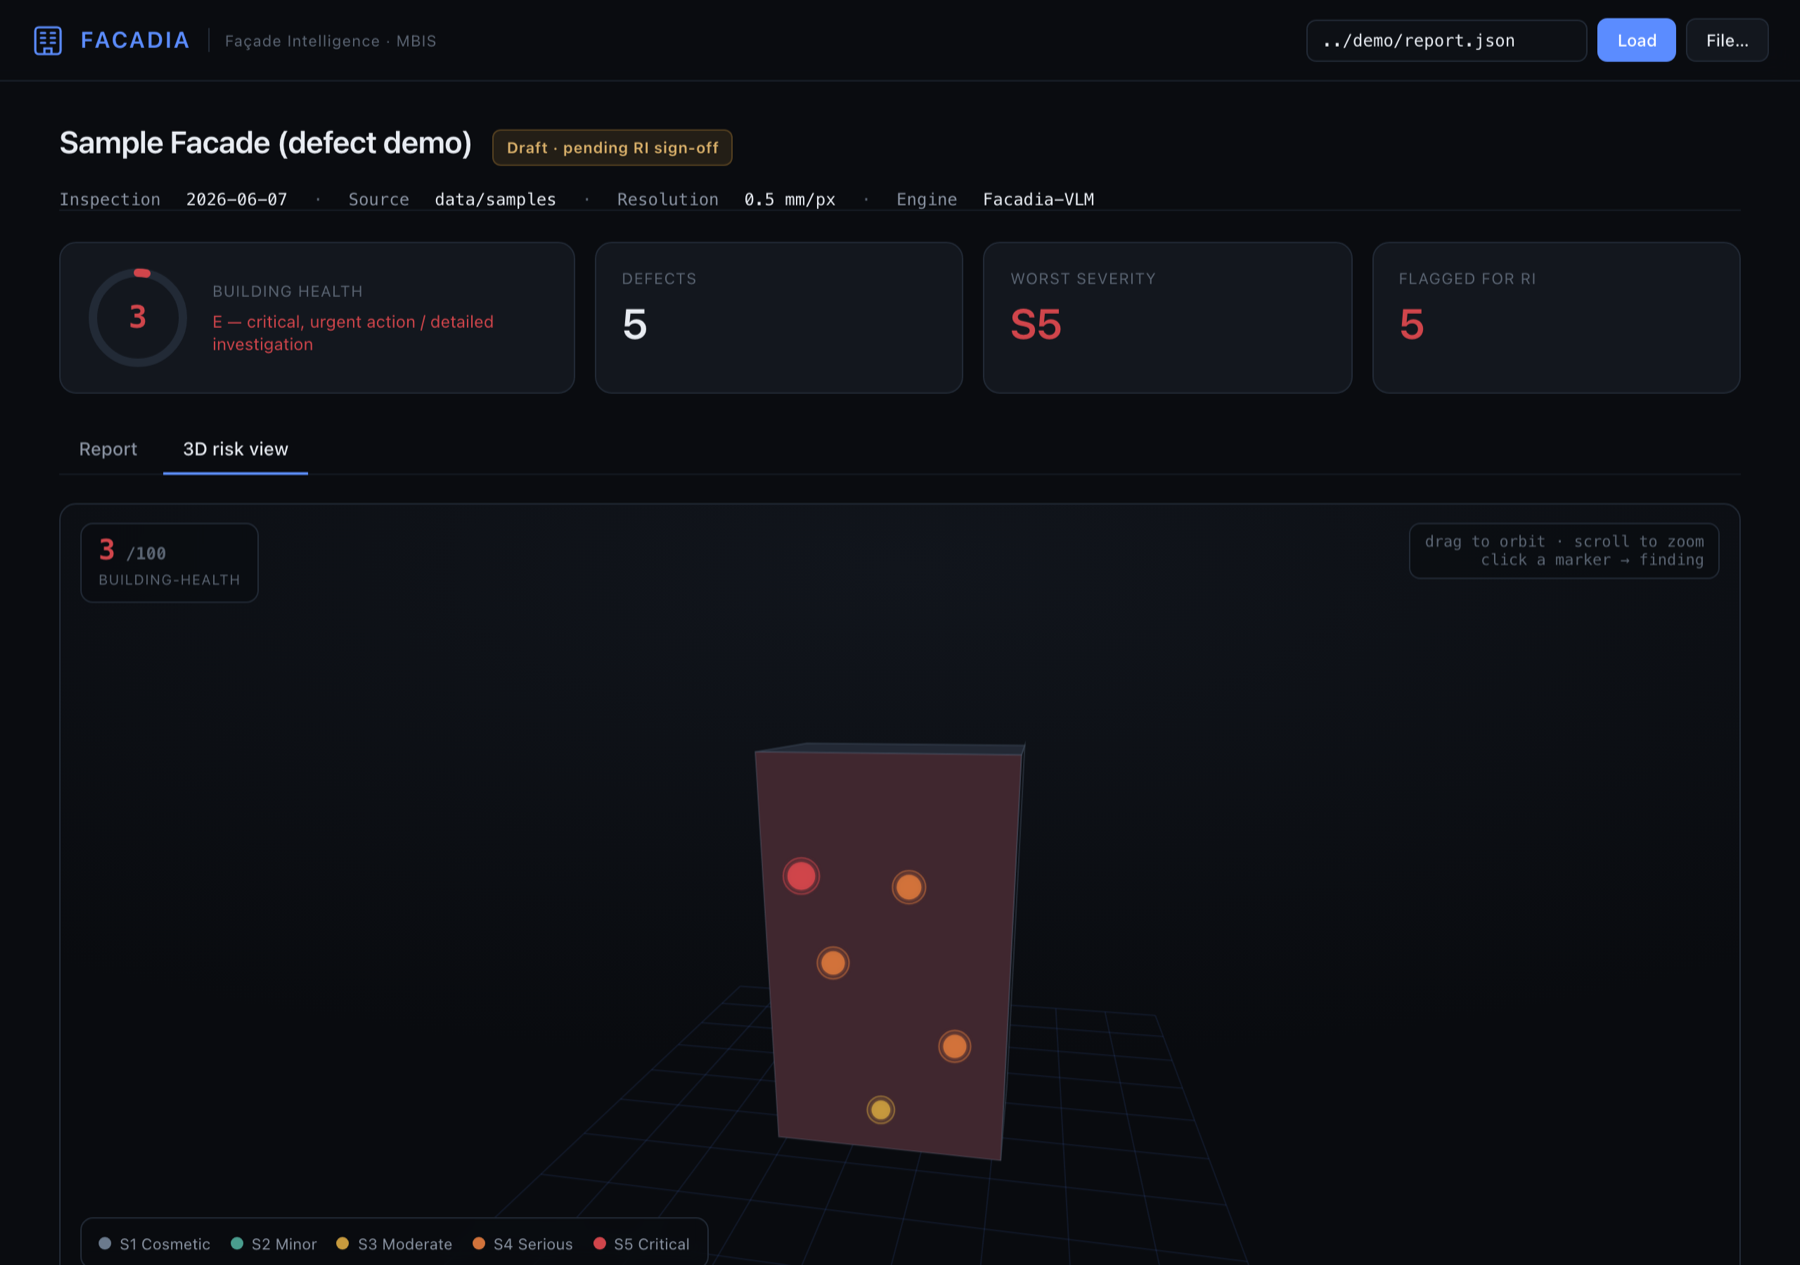
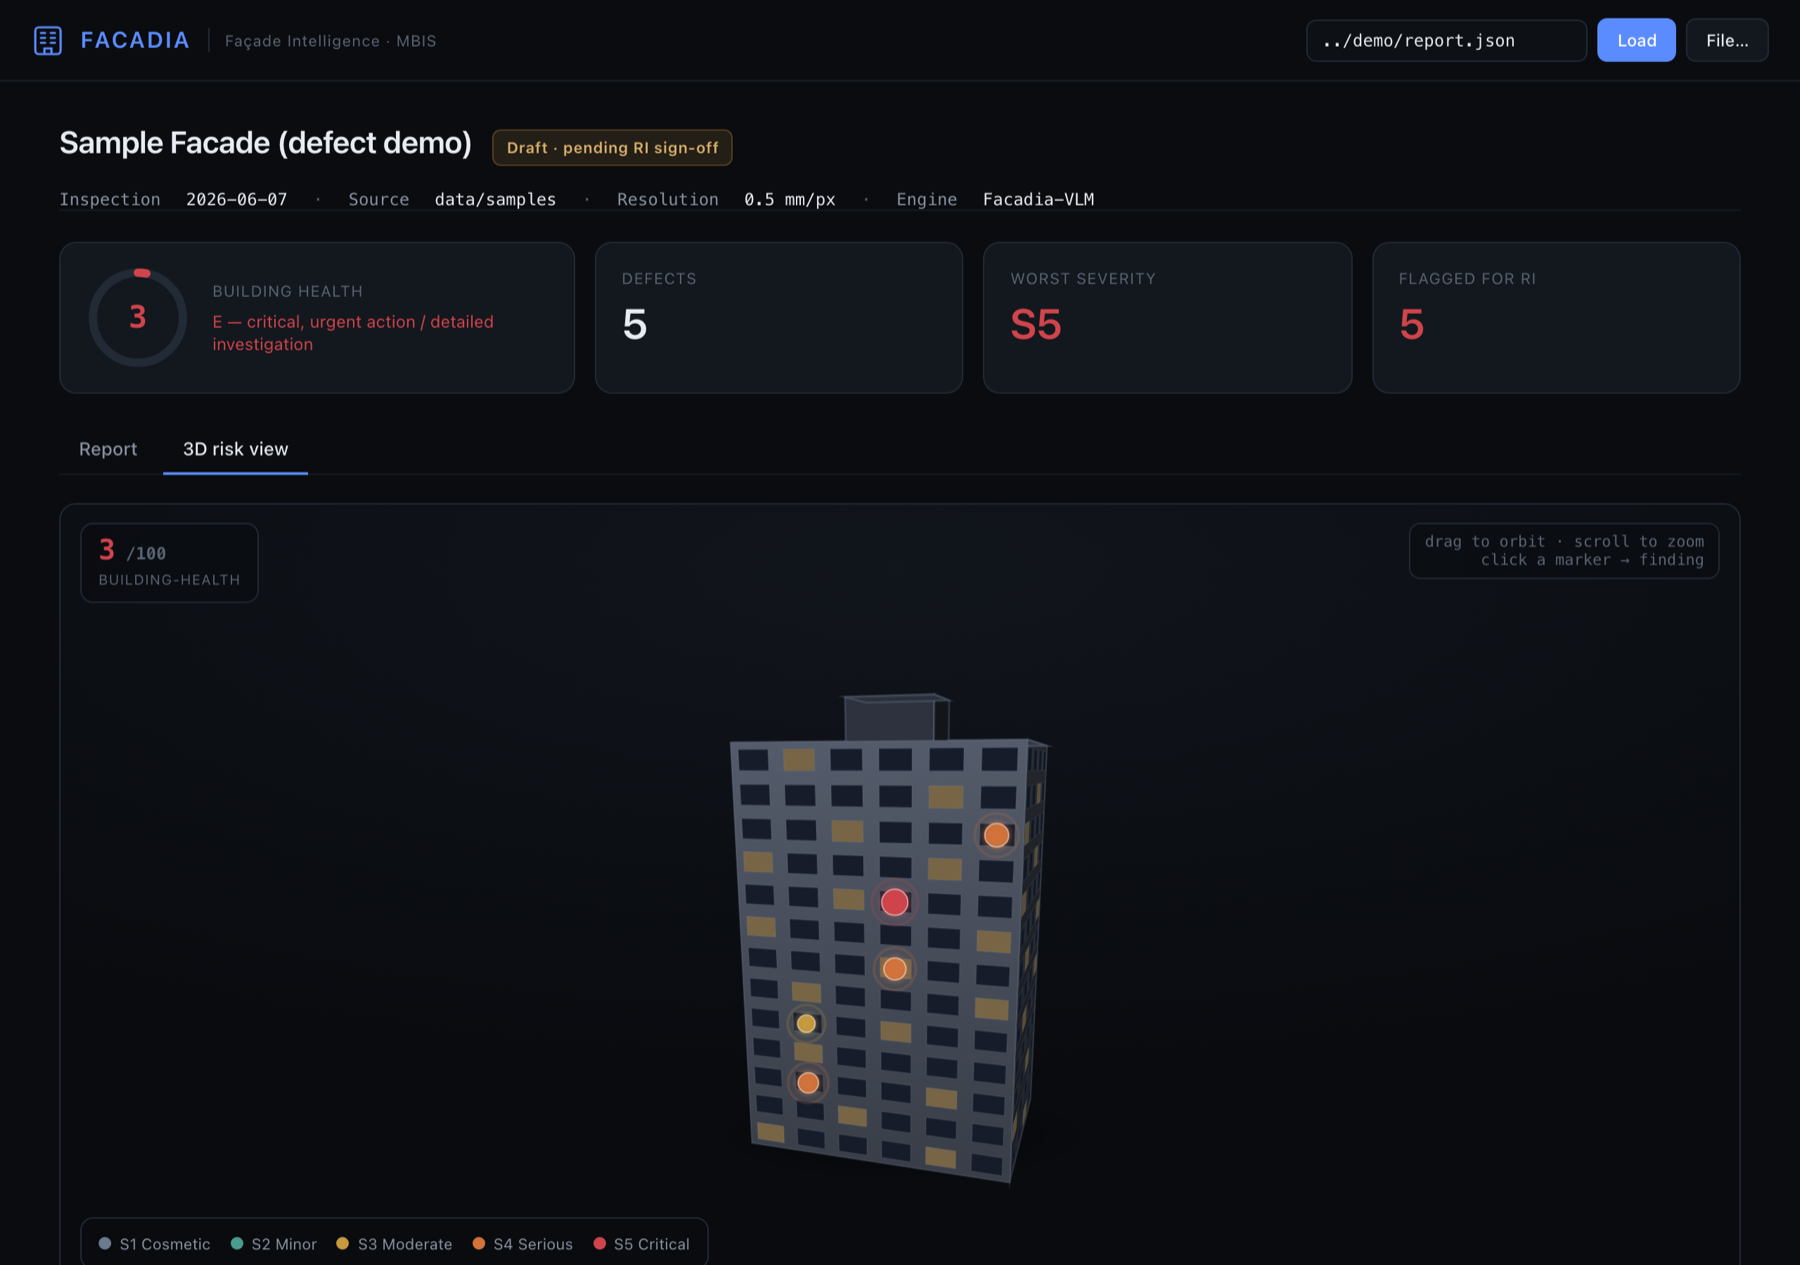
feat(survey): more realistic 3D risk view
Upgrade the massing viewer into a believable high-rise: window grid with some lit
windows, vertical light gradient (brighter top, darker base), a roof slab with a
rooftop plant box, a soft ground shadow, and defect markers that sit on façade
window cells with pulsing severity-coloured halos. Still dependency-free canvas
(no CDN), orbit/zoom/click intact.

Changed region(s): [[0.4044, 0.5241, 0.5911, 0.9557]]

diff --git a/survey/dashboard/index.html b/survey/dashboard/index.html
@@ -277,18 +277,18 @@ function render(rep){
 
 /* ---------- minimal dependency-free 3D massing viewer ---------- */
 const Scene3D = (() => {
-  let cv, ctx, raf, defs=[], pts=[], cam, hover=-1, drag=false, lx=0, ly=0, auto=true, health=100;
-  const W=2.6, H=4.4, D=1.7;
+  let cv, ctx, raf, defs=[], pts=[], cam, hover=-1, drag=false, lx=0, ly=0, auto=true, health=100, t=0;
+  const W=3.2, H=4.8, D=2.2, FLOORS=13, COLS_F=6, COLS_S=4;
 
   function mount(canvas, ds, h){
     if(!canvas) return;
     cancelAnimationFrame(raf);
     cv=canvas; ctx=cv.getContext('2d'); defs=ds||[]; health=(h&&h.score!=null)?h.score:100;
-    cam={yaw:-0.6, pitch:0.32, dist:8.4}; hover=-1; auto=true;
-    // deterministic spread of markers on the front face
+    cam={yaw:-0.62, pitch:0.24, dist:9.0}; hover=-1; auto=true; t=0;
+    // place each defect on a window cell of the front façade (deterministic)
     pts = defs.map((d,i)=>{
-      const u=((i+1)*0.61803398)%1, v=((i+1)*0.75487766)%1;
-      return {x:(u-0.5)*W*0.82, y:(0.10+v*0.80)*H, z:D/2+0.02, sev:d.severity, i};
+      const col=(i*2+1)%COLS_F, row=2+((i*4)%(FLOORS-3));
+      return {x:((col+0.5)/COLS_F-0.5)*W, y:((row+0.5)/FLOORS)*H, z:D/2+0.03, sev:d.severity, i};
     });
     cv.onmousedown=e=>{drag=true;auto=false;lx=e.clientX;ly=e.clientY;};
     window.addEventListener('mousemove',onMove);
@@ -321,67 +321,85 @@ const Scene3D = (() => {
     const r=rot({x:p.x,y:p.y-H/2,z:p.z}), f=(cv._h||500)*0.92, depth=Math.max(0.1,cam.dist-r.z), s=f/depth;
     return {X:(cv._w/2)+r.x*s, Y:(cv._h*0.56)-r.y*s, depth, rz:r.z};
   }
-  function vtx(x,y,z){return {x,y,z};}
-  function faceList(){
-    const x0=-W/2,x1=W/2,y0=0,y1=H,z0=-D/2,z1=D/2;
+  function P(o,u,v,s,tt){return {x:o.x+s*u.x+tt*v.x, y:o.y+s*u.y+tt*v.y, z:o.z+s*u.z+tt*v.z};}
+  function rotN(n){return rot({x:n[0],y:n[1],z:n[2]});}
+  function lit(n){const r=rotN(n),L=[-0.34,0.5,0.8];
+    return {l:0.34+0.66*Math.max(0,r.x*L[0]+r.y*L[1]+r.z*L[2]), rz:r.z};}
+  function rgb(c){return `rgb(${c[0]|0},${c[1]|0},${c[2]|0})`;}
+  function scl(c,k){return [c[0]*k,c[1]*k,c[2]*k];}
+  function faces(){
     return [
-      {n:[0,0,1], v:[vtx(x0,y0,z1),vtx(x1,y0,z1),vtx(x1,y1,z1),vtx(x0,y1,z1)], front:true},
-      {n:[0,0,-1],v:[vtx(x1,y0,z0),vtx(x0,y0,z0),vtx(x0,y1,z0),vtx(x1,y1,z0)]},
-      {n:[1,0,0], v:[vtx(x1,y0,z1),vtx(x1,y0,z0),vtx(x1,y1,z0),vtx(x1,y1,z1)]},
-      {n:[-1,0,0],v:[vtx(x0,y0,z0),vtx(x0,y0,z1),vtx(x0,y1,z1),vtx(x0,y1,z0)]},
-      {n:[0,1,0], v:[vtx(x0,y1,z1),vtx(x1,y1,z1),vtx(x1,y1,z0),vtx(x0,y1,z0)]},
+      {wall:1,front:1,n:[0,0,1], o:{x:-W/2,y:0,z:D/2}, u:{x:W,y:0,z:0},  v:{x:0,y:H,z:0}, cols:COLS_F},
+      {wall:1,n:[1,0,0],         o:{x:W/2,y:0,z:D/2},  u:{x:0,y:0,z:-D}, v:{x:0,y:H,z:0}, cols:COLS_S},
+      {wall:1,n:[-1,0,0],        o:{x:-W/2,y:0,z:-D/2},u:{x:0,y:0,z:D},  v:{x:0,y:H,z:0}, cols:COLS_S},
+      {wall:1,n:[0,0,-1],        o:{x:W/2,y:0,z:-D/2}, u:{x:-W,y:0,z:0}, v:{x:0,y:H,z:0}, cols:COLS_F},
+      {roof:1,n:[0,1,0],         o:{x:-W/2,y:H,z:D/2}, u:{x:W,y:0,z:0},  v:{x:0,y:0,z:-D}},
     ];
   }
-  function shade(n){
-    const rn=rot({x:n[0],y:n[1],z:n[2]}); const L=[-0.3,0.55,0.78];
-    const d=Math.max(0,rn.x*L[0]+rn.y*L[1]+rn.z*L[2]); return {lit:0.32+0.68*d, rz:rn.z};
+  function qpath(ps){ctx.beginPath();ctx.moveTo(ps[0].X,ps[0].Y);for(let i=1;i<ps.length;i++)ctx.lineTo(ps[i].X,ps[i].Y);ctx.closePath();}
+  function drawShadow(){
+    const cs=[[-W/2,-D/2],[W/2,-D/2],[W/2,D/2],[-W/2,D/2]].map(c=>proj({x:c[0],y:0,z:c[1]}));
+    let cx=0,cy=0,mnx=1e9,mxx=-1e9; cs.forEach(p=>{cx+=p.X;cy+=p.Y;mnx=Math.min(mnx,p.X);mxx=Math.max(mxx,p.X);});
+    cx/=4;cy/=4; const rx=Math.max(50,(mxx-mnx)*0.7), ry=rx*0.24;
+    ctx.save();ctx.translate(cx,cy+8);ctx.scale(1,ry/rx);
+    const g=ctx.createRadialGradient(0,0,0,0,0,rx);g.addColorStop(0,'rgba(0,0,0,.5)');g.addColorStop(1,'rgba(0,0,0,0)');
+    ctx.fillStyle=g;ctx.beginPath();ctx.arc(0,0,rx,0,7);ctx.fill();ctx.restore();
   }
-  function mix(a,b,t){return a.map((v,i)=>Math.round(v+(b[i]-v)*t));}
-  function draw(){
-    if(!cv) return;
-    ctx.clearRect(0,0,cv._w,cv._h);
-    // ground grid
-    ctx.strokeStyle='rgba(91,140,255,.10)'; ctx.lineWidth=1;
-    const G=3.6, N=9;
-    for(let i=0;i<=N;i++){const t=-G+2*G*i/N;
-      let a=proj({x:t,y:0,z:-G}),b=proj({x:t,y:0,z:G}); ctx.beginPath();ctx.moveTo(a.X,a.Y);ctx.lineTo(b.X,b.Y);ctx.stroke();
-      let c=proj({x:-G,y:0,z:t}),d=proj({x:G,y:0,z:t}); ctx.beginPath();ctx.moveTo(c.X,c.Y);ctx.lineTo(d.X,d.Y);ctx.stroke();}
-    // faces (painter's, backface-culled)
-    const faces=faceList().map(f=>{const sh=shade(f.n);const pv=f.v.map(proj);
-      return {...f, sh, pv, depth:(pv[0].depth+pv[1].depth+pv[2].depth+pv[3].depth)/4};})
-      .filter(f=>f.sh.rz>0.001).sort((a,b)=>b.depth-a.depth);
-    const baseC=[40,48,62], riskC=[150,60,66], tint=Math.max(0,(60-health))/60*0.45;
-    for(const f of faces){
-      const lit=f.sh.lit; let c=baseC.map(v=>Math.round(v*lit));
-      if(f.front) c=mix(c, riskC.map(v=>Math.round(v*lit)), tint);
-      ctx.beginPath();ctx.moveTo(f.pv[0].X,f.pv[0].Y);for(let i=1;i<4;i++)ctx.lineTo(f.pv[i].X,f.pv[i].Y);ctx.closePath();
-      ctx.fillStyle=`rgb(${c[0]},${c[1]},${c[2]})`; ctx.fill();
-      ctx.strokeStyle='rgba(120,140,170,.22)';ctx.lineWidth=1;ctx.stroke();
+  function drawWall(f){
+    const c=[P(f.o,f.u,f.v,0,0),P(f.o,f.u,f.v,1,0),P(f.o,f.u,f.v,1,1),P(f.o,f.u,f.v,0,1)].map(proj);
+    const base=scl([92,100,116],f.L.l), tm={X:(c[2].X+c[3].X)/2,Y:(c[2].Y+c[3].Y)/2}, bm={X:(c[0].X+c[1].X)/2,Y:(c[0].Y+c[1].Y)/2};
+    const g=ctx.createLinearGradient(tm.X,tm.Y,bm.X,bm.Y); g.addColorStop(0,rgb(scl(base,1.12)));g.addColorStop(1,rgb(scl(base,0.76)));
+    qpath(c);ctx.fillStyle=g;ctx.fill();
+    const rows=FLOORS, cols=f.cols, mh=0.17, mv=0.20, glass=scl([20,26,38],0.7+0.5*f.L.l), warm=[124,106,72];
+    for(let j=0;j<rows;j++)for(let i=0;i<cols;i++){
+      const s0=(i+mh)/cols,s1=(i+1-mh)/cols,t0=(j+mv)/rows,t1=(j+1-mv)/rows;
+      const w=[P(f.o,f.u,f.v,s0,t1),P(f.o,f.u,f.v,s1,t1),P(f.o,f.u,f.v,s1,t0),P(f.o,f.u,f.v,s0,t0)].map(proj);
+      const on=((i*7+j*13+(f.front?0:5))%9)<2;
+      qpath(w); ctx.fillStyle=on?rgb(scl(warm,0.55+0.5*f.L.l)):rgb(glass); ctx.fill();
+      ctx.strokeStyle='rgba(150,170,200,.10)';ctx.lineWidth=1;ctx.stroke();
     }
-    // markers on the front face (only if it's facing us)
-    const frontVis = shade([0,0,1]).rz>0.001;
-    pts.forEach(p=>p.vis=false);
+    qpath(c);ctx.strokeStyle='rgba(150,170,200,.18)';ctx.lineWidth=1;ctx.stroke();
+  }
+  function drawRoof(f){
+    const c=[P(f.o,f.u,f.v,0,0),P(f.o,f.u,f.v,1,0),P(f.o,f.u,f.v,1,1),P(f.o,f.u,f.v,0,1)].map(proj);
+    qpath(c);ctx.fillStyle=rgb(scl([66,74,90],f.L.l));ctx.fill();
+    qpath(c);ctx.strokeStyle='rgba(150,170,200,.25)';ctx.lineWidth=1.5;ctx.stroke();
+    const x0=-W/2+0.34*W, z0=D/2-0.30*D, x1=x0+0.32*W, z1=z0-0.34*D, yt=H+0.5;
+    [{n:[0,0,1],v:[[x0,H,z0],[x1,H,z0],[x1,yt,z0],[x0,yt,z0]]},
+     {n:[1,0,0],v:[[x1,H,z0],[x1,H,z1],[x1,yt,z1],[x1,yt,z0]]},
+     {n:[0,1,0],v:[[x0,yt,z0],[x1,yt,z0],[x1,yt,z1],[x0,yt,z1]]}]
+      .map(b=>({b,L:lit(b.n),pv:b.v.map(p=>proj({x:p[0],y:p[1],z:p[2]}))})).filter(o=>o.L.rz>0)
+      .forEach(o=>{qpath(o.pv);ctx.fillStyle=rgb(scl([56,62,76],o.L.l));ctx.fill();ctx.strokeStyle='rgba(150,170,200,.2)';ctx.stroke();});
+  }
+  function draw(){
+    if(!cv) return; t++;
+    ctx.clearRect(0,0,cv._w,cv._h);
+    drawShadow();
+    const fs=faces().map(f=>{const L=lit(f.n);const cc=[P(f.o,f.u,f.v,0,0),P(f.o,f.u,f.v,1,1)].map(proj);
+      return {...f,L,depth:(cc[0].depth+cc[1].depth)/2};}).filter(f=>f.L.rz>0.002).sort((a,b)=>b.depth-a.depth);
+    for(const f of fs){ if(f.roof) drawRoof(f); else drawWall(f); }
+    const frontVis=lit([0,0,1]).rz>0.002; pts.forEach(p=>p.vis=false);
     if(frontVis){
       const order=pts.map(p=>({p,pr:proj(p)})).sort((a,b)=>b.pr.depth-a.pr.depth);
+      const pulse=0.5+0.5*Math.sin(t*0.07);
       for(const {p,pr} of order){
-        p.sx=pr.X; p.sy=pr.Y; p.vis=true;
-        const col=SEV[p.sev][2], rr=(4.2+p.sev*1.6)*(6/pr.depth), big=p.i===hover;
-        ctx.save(); ctx.shadowColor=col; ctx.shadowBlur=big?18:10;
-        ctx.beginPath();ctx.arc(pr.X,pr.Y,rr,0,7); ctx.fillStyle=col; ctx.globalAlpha=.92; ctx.fill();
-        ctx.restore();
-        ctx.beginPath();ctx.arc(pr.X,pr.Y,rr+ (big?5:3),0,7); ctx.strokeStyle=col; ctx.globalAlpha=big?.9:.5;
-        ctx.lineWidth=big?2:1.2; ctx.stroke(); ctx.globalAlpha=1;
+        p.sx=pr.X;p.sy=pr.Y;p.vis=true;
+        const col=SEV[p.sev][2], rr=(3.2+p.sev*1.4)*(7/pr.depth), big=p.i===hover;
+        ctx.beginPath();ctx.arc(pr.X,pr.Y,rr+4+pulse*5,0,7);ctx.strokeStyle=col;ctx.globalAlpha=(big?.5:.3)*(1-pulse*0.55);ctx.lineWidth=2;ctx.stroke();ctx.globalAlpha=1;
+        ctx.save();ctx.shadowColor=col;ctx.shadowBlur=big?20:12;
+        ctx.beginPath();ctx.arc(pr.X,pr.Y,rr,0,7);ctx.fillStyle=col;ctx.globalAlpha=.95;ctx.fill();ctx.restore();
+        ctx.beginPath();ctx.arc(pr.X,pr.Y,rr,0,7);ctx.strokeStyle='rgba(255,255,255,.5)';ctx.lineWidth=1;ctx.stroke();ctx.globalAlpha=1;
         if(big){
-          const d=defs[p.i], lab=`${d.id}  ·  S${d.severity} ${SEV[d.severity][0]}`;
-          ctx.font='12px ui-monospace,Menlo,monospace'; const tw=ctx.measureText(lab).width;
-          ctx.fillStyle='rgba(8,11,15,.9)'; ctx.strokeStyle=col;
-          const bx=pr.X+12, by=pr.Y-26; ctx.beginPath();ctx.rect(bx,by,tw+16,22);ctx.fill();ctx.lineWidth=1;ctx.stroke();
-          ctx.fillStyle='#e8ecf2'; ctx.fillText(lab,bx+8,by+15);
+          const d=defs[p.i], lab=`${d.id}   S${d.severity} ${SEV[d.severity][0]}`;
+          ctx.font='12px ui-monospace,Menlo,monospace';const tw=ctx.measureText(lab).width;
+          const bx=pr.X+12,by=pr.Y-28;ctx.fillStyle='rgba(8,11,15,.92)';ctx.strokeStyle=col;
+          ctx.beginPath();ctx.rect(bx,by,tw+16,22);ctx.fill();ctx.lineWidth=1;ctx.stroke();
+          ctx.fillStyle='#e8ecf2';ctx.fillText(lab,bx+8,by+15);
         }
       }
     }
   }
-  function loop(){ if(auto&&!drag) cam.yaw+=0.0032; draw(); raf=requestAnimationFrame(loop); }
+  function loop(){ if(auto&&!drag) cam.yaw+=0.0026; draw(); raf=requestAnimationFrame(loop); }
   window.addEventListener('resize',()=>{resize&&resize();});
   return {mount, resize};
 })();